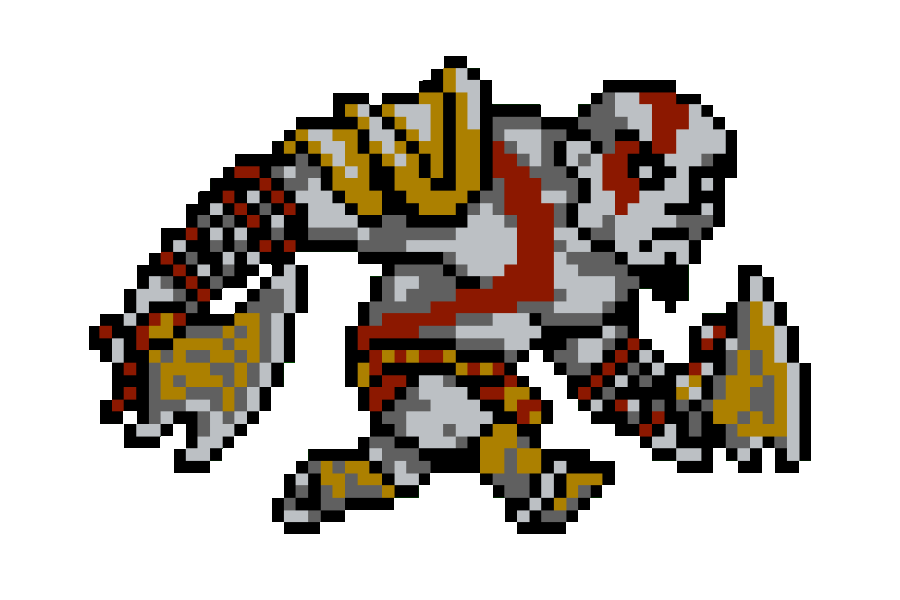
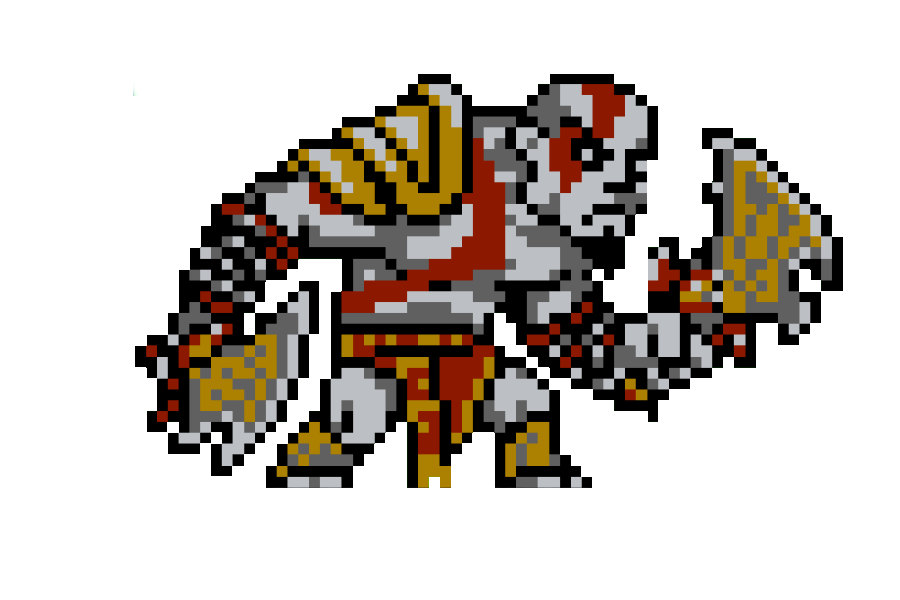
agregue a los enemigos, que se desplazan de izquierda a derecha, puse un limite para los enemigos y para kratos

diff --git a/src/juego/Juego.java b/src/juego/Juego.java
@@ -15,6 +15,7 @@ public class Juego extends InterfaceJuego {
 	// Variables y métodos propios de cada grupo
 	// ...
 	Jugador kratos;
+	Enemigos[] dino;
 	Image fondo;
 	ArrayList<Proyectil> proyectilesJugador = new ArrayList<Proyectil>();
 	List<Plataforma> plataformas;
@@ -28,18 +29,25 @@ public class Juego extends InterfaceJuego {
 	Juego() {
 
 		// Inicializa el objeto entorno
-		this.entorno = new Entorno(this, "TP1 - Grupo 14", 800, 600);
+		this.entorno = new Entorno(this, "TP1 - Grupo 14", 980, 680);
 
 		fondo = Herramientas.cargarImagen("background.jpg");
-		kratos = new Jugador(400,500);  /*<--- Ajustar posicion*/
+		kratos = new Jugador(785,610);  /*<--- Ajustar posicion*/
 
 		plataformas = new ArrayList<>();
         // Crear 5 plataformas en diferentes posiciones
         for (int i = 0; i < 5; i++) {
             plataformas.add(new Plataforma(100, 100 + i * 100, 10)); // 10 bloques por plataforma
         }
-
+        /*PARA DIBUJAR A LOS DINOSAURIOS*/
+		dino = new Enemigos[2];
+		int posXDino0 = 96;
+		int posYDino0 = 500;
+		dino[0] = new Enemigos(posXDino0, posYDino0, 0);
 		
+		int posXDino1= 910;
+		int posYDino1= 500;
+		dino[1]= new Enemigos(posXDino1,posYDino1, 1);
 
 		// Inicializar lo que haga falta para el juego
 		// ...
@@ -57,8 +65,13 @@ public class Juego extends InterfaceJuego {
 	public void tick() {
 		// Procesamiento de un instante de tiempo
 		// ...
-
 		currentTime = System.currentTimeMillis();
+		/*TICK MOVIMIENTO DE ENEMIGO*/
+		for(Enemigos d : this.dino) {
+			dino[d.direccion].moverse();
+		}
+		
+		
 		/*Tick Movimiento PJ*/
 		if (entorno.estaPresionada(entorno.TECLA_DERECHA) && (!entorno.estaPresionada(entorno.TECLA_ABAJO) && !entorno.estaPresionada(entorno.TECLA_ARRIBA))) {
 			kratos.mover(2);
@@ -66,26 +79,28 @@ public class Juego extends InterfaceJuego {
 		if(entorno.estaPresionada(entorno.TECLA_IZQUIERDA)&& (!entorno.estaPresionada(entorno.TECLA_ABAJO) && !entorno.estaPresionada(entorno.TECLA_ARRIBA))){
 			kratos.mover(0);
 		}
-		if(!entorno.estaPresionada(entorno.TECLA_IZQUIERDA) && !entorno.estaPresionada(entorno.TECLA_DERECHA)&&!entorno.estaPresionada('X')) {
-			kratos.mover(4);
-		}
+//		if(!entorno.estaPresionada(entorno.TECLA_IZQUIERDA) && !entorno.estaPresionada(entorno.TECLA_DERECHA)&&!entorno.estaPresionada('X')) {
+//			kratos.mover(1);
+//		
+//		}
+//		
 		if(entorno.estaPresionada(entorno.TECLA_ESPACIO) && currentTime - cooldownJugador >=500) {
 			dispararJugador();
 			cooldownJugador = currentTime;
 		}
 		if(entorno.estaPresionada('X')){
-			kratos.saltar(); //<---- PARA QUE SALTE
+			kratos.mover(3); //<---- PARA QUE SALTE
 		}else {
 			kratos.caer();
 		}
 		
-		entorno.dibujarImagen(fondo, 400, 300, 0, 0.7);
+		entorno.dibujarImagen(fondo, 490, 340, 0, 0.78);
 
 		// Dibuja las plataformas
-		for (Plataforma plataforma : plataformas) {
-			plataforma.dibujar(entorno);
-		}
-		
+//		for (Plataforma plataforma : plataformas) {
+//			plataforma.dibujar(entorno);
+//		}
+//		
 		for(int i = 0; i < proyectilesJugador.size(); i++) {
 			if(!proyectilFueraPantalla(proyectilesJugador.get(i))) {
 				proyectilesJugador.get(i).dibujarJugador(this.entorno);
@@ -97,8 +112,9 @@ public class Juego extends InterfaceJuego {
 			
 		}
 		kratos.dibujarse(this.entorno);
-
 		
+		/*DIBUJAR DINO*/
+		dibujarDinos(dino);
 	}
 	private boolean proyectilFueraPantalla(Proyectil p) {
 
@@ -121,10 +137,16 @@ public class Juego extends InterfaceJuego {
 	/*FUNCION PARA EL DISPARO*/
 	
 	public void dispararJugador() {
-		Proyectil bola = new Proyectil(kratos.x,kratos.y, 5 , kratos.direccion, 0);
+		Proyectil bola = new Proyectil(kratos.x, kratos.y, 5, kratos.direccion, 0);
 		proyectilesJugador.add(bola);
 	}
 	
+	/*FUNCION PARA DIBUJAR ENEMIGOS*/
+	public void dibujarDinos(Enemigos[] dino) {
+		for(int i = 0; i < dino.length; i++) {
+			dino[i].dibujarse(entorno);
+		}
+	}
 	
 	
 	@SuppressWarnings("unused")

diff --git a/src/juego/Enemigos.java b/src/juego/Enemigos.java
@@ -1,5 +1,46 @@
 package juego;
 
+import java.awt.Image;
+
+import entorno.Entorno;
+import entorno.Herramientas;
+
 public class Enemigos {
+    double x;
+    double y;
+    Image[] imagen;
+    int direccion;
+    double velocidad = 1.2;
+    boolean debeFrenar;
+    
+    public Enemigos(double x, double y, int direccion) {
+    	this.x=x;
+    	this.y=y;
+    	this.direccion=direccion;
+    	this.imagen= new Image[2];
+    	
+    	for (int i = 0; i < imagen.length; i++) {
+    		imagen[i] = Herramientas.cargarImagen("dino"+i+".png");
+    	}
+    }
+   public void dibujarse(Entorno entorno) {
+	   entorno.dibujarImagen(imagen[this.direccion], this.x, this.y, 0, 0.26);
+   }
+   public void moverse() {
+	  /*AGREGAR EL Y DESPUES SI ES NECESARIO*/
+	   if(direccion == 0 && !debeFrenar) {
+		   x+=velocidad;
+	   }
+	   if(direccion==1 && !debeFrenar) {
+		   x-=velocidad;
+	   }
+	   
+	   if(this.x > 913) {
+		   x=913;
+	   }
+	   if(this.x<98) {
+		   x=98;
+	   }
+   }
     
 }

diff --git a/src/juego/Jugador.java b/src/juego/Jugador.java
@@ -24,9 +24,10 @@ public class Jugador {
 		for (int i = 0; i < imagen.length;i++ ) {
 			imagen[i] = Herramientas.cargarImagen("kratos" + i +".png"); //<--- agregar imagenes
 		}
+		
 	}
 	void dibujarse(Entorno entorno) {
-		entorno.dibujarImagen(imagen[this.direccion], this.x, this.y, 0, 0.3);
+		entorno.dibujarImagen(imagen[this.direccion], this.x, this.y, 0, 0.2); /*O 0.15*/
 	}
 	public void mover(int d) {
 		this.direccion=d;
@@ -49,14 +50,14 @@ public class Jugador {
 		
 
 		//limite del PJ
-		if (this.x>1080) {
-			x=1080;
+		if (this.x>864) {
+			x=864;
 		}
-		if (this.x<20) {
-			x=20;
+		if (this.x<117) {
+			x=117;
 		}
-		if(this.y>500) {
-			y=500;
+		if(this.y>610) {
+			y=610;
 		}
 		if(this.y<20) {
 			y=20;
@@ -87,8 +88,8 @@ public class Jugador {
 	public void caer() {
 		y+=velocidad;
 		
-		if(this.y>500) {
-			y=500;
+		if(this.y>608) {
+			y=608;
 		}
 		if(this.y<20) {
 			y=20;

diff --git a/src/juego/Proyectil.java b/src/juego/Proyectil.java
@@ -42,7 +42,7 @@ public class Proyectil {
 	      y-= velocidad;
 	     }
 	     if(direccion == 4) {
-	    	 x+=x;
+	    	 
 	    			
 	     }
 	    }
